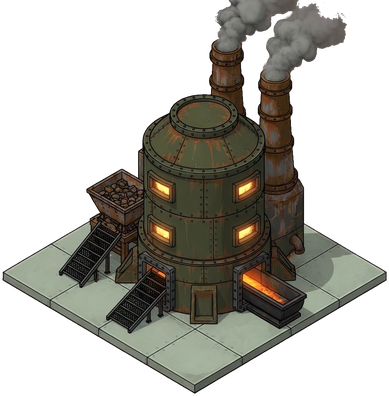
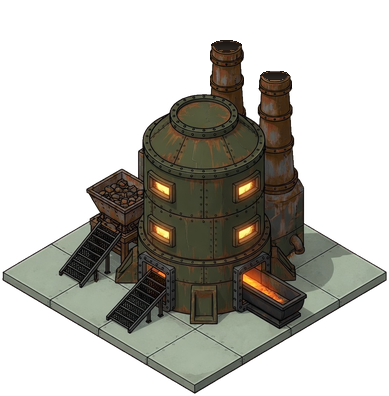
Smelter: drop painted chimney smoke, keep only animated plumes
Erase the static smoke from smelter.png and rebuild the chimney mouths as
open dark rims. Smoke spots now sit on the mouths, with a taller thin trail
from each, and puffs are more opaque so they carry the plume alone.

Changed region(s): [[0.5244, 0.0, 0.8946, 0.2121]]

diff --git a/gridlock/packages/client/src/render/building-fx.ts b/gridlock/packages/client/src/render/building-fx.ts
@@ -47,7 +47,7 @@ interface SmokeSpot {
   y: number;
   /** Rise height, source px at pad scale. Default 26 × the def scale. */
   rise?: number;
-  /** Lighter, thinner puffs: the far end of a plume already painted into the sprite. */
+  /** Lighter, thinner puffs that drift downwind: the long tail of a plume. */
   thin?: boolean;
 }
 
@@ -98,13 +98,13 @@ const DEFS: Partial<Record<EntityType, BuildingAnimDef>> = {
       { x: 161, y: 274, r: 8, color: "#ff7a18", period: 580, phase: 0.22, mode: "pulse" },
       { x: 265, y: 290, r: 16, color: "#ff6a14", period: 520, phase: 0.0, mode: "pulse" },
     ],
-    // Mouths, then the tops of the plumes painted into smelter.png, so the motion
-    // reads above the static smoke too.
+    // All smoke is animated: smelter.png carries no painted plume. Each mouth has
+    // dense puffs plus a taller, thinner trail leaning downwind.
     smoke: [
-      { x: 216, y: 38 },
-      { x: 270, y: 70 },
-      { x: 236, y: 10, rise: 44, thin: true },
-      { x: 318, y: 22, rise: 44, thin: true },
+      { x: 226, y: 44 },
+      { x: 275, y: 74 },
+      { x: 226, y: 42, rise: 58, thin: true },
+      { x: 275, y: 72, rise: 58, thin: true },
     ],
   },
   muster: {
@@ -218,11 +218,11 @@ function drawChimneySmoke(
   for (let i = 0; i < puffs; i++) {
     const t = ((nowMs * 0.00018 + seed * 0.13 + i / puffs) % 1 + 1) % 1;
     const drift = Math.sin(nowMs * 0.0014 + seed + i * 1.7) * 4.5 * scale;
-    // Thin plume ends lean downwind (screen right), like the painted smoke.
+    // Thin plume ends lean downwind (screen right).
     const px = x + drift + (thin ? t * 14 * scale : 0);
     const py = y - t * rise * scale;
     const grow = 0.45 + t * 1.35;
-    const a = intensity * (1 - t) * Math.min(1, t * 3.2) * 0.38;
+    const a = intensity * (1 - t) * Math.min(1, t * 3.2) * 0.62;
     if (a <= 0.02) continue;
     ctx.save();
     ctx.globalAlpha = a;
